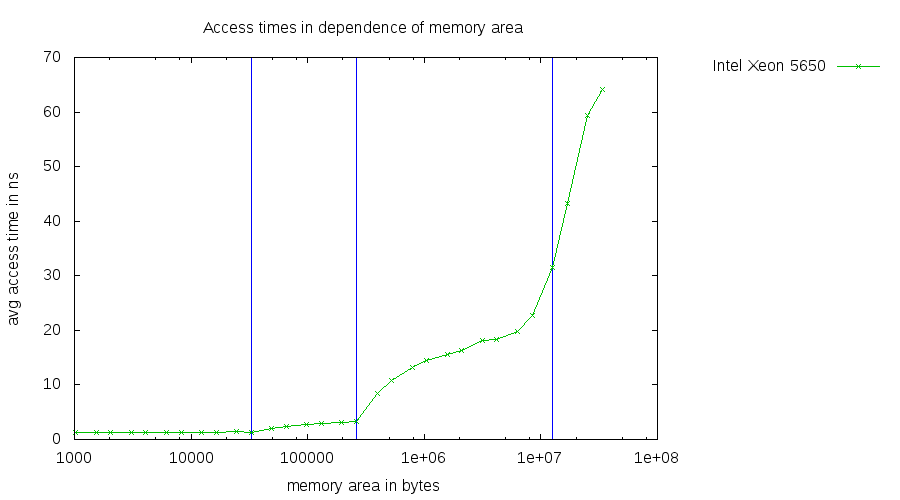
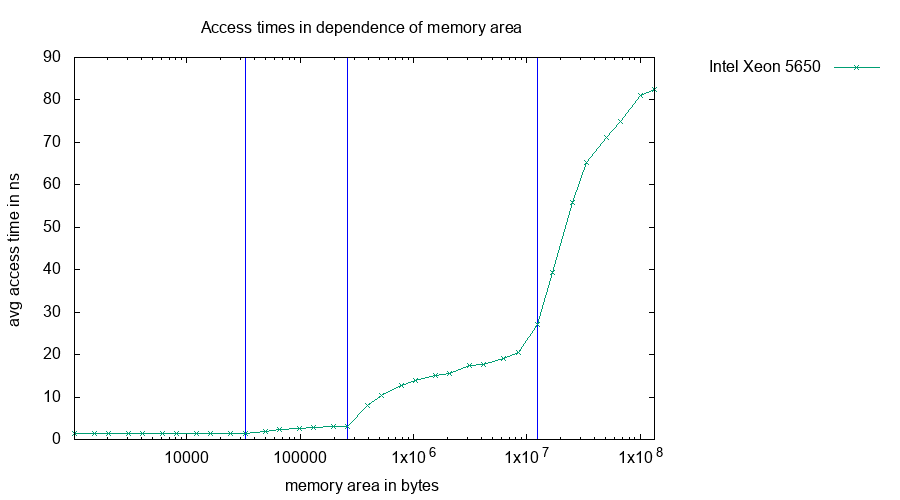
fmt::printf updated; walltime replaced by header-only class that is based on C++ std library; various minor adaptions

diff --git a/fused-linear-chase.cpp b/fused-linear-chase.cpp
@@ -1,5 +1,5 @@
 /* 
-   Copyright (c) 2016 Andreas F. Borchert
+   Copyright (c) 2016, 2018 Andreas F. Borchert
    All rights reserved.
 
    Permission is hereby granted, free of charge, to any person obtaining
@@ -53,15 +53,15 @@ volatile void* fused_linear_global; // to defeat optimizations
 
 template<typename... Pointers>
 double fused_chase(std::size_t count, Pointers&... ptrs) {
-   double t0 = walltime();
+   WallTime<double> walltime;
    // chase the pointers count times
    while (count-- > 0) {
       fused_action([](void**& p) { p = (void**) *p; }, ptrs...);
    }
-   double t1 = walltime();
+   auto elapsed = walltime.elapsed();
    // defeat the optimization that removes the chasing
    fused_action([](void**& p) { fused_linear_global = *p; }, ptrs...);
-   return t1 - t0;
+   return elapsed;
 }
 
 #ifndef MIN_STRIDE
@@ -81,13 +81,14 @@ int main() {
    fmt::printf("\n    stride\n");
    for (std::size_t stride = MIN_STRIDE; stride <= MAX_STRIDE;
 	 stride += sizeof(void*)) {
-      size_t memsize = std::min((size_t) 1<<26, stride * 1024 * sizeof(void*));
-      std::size_t count = (std::size_t) 1<<30;
+      size_t memsize = std::min(std::size_t{1}<<26,
+	 stride * 1024 * sizeof(void*));
+      std::size_t count = std::size_t{1}<<30;
       fmt::printf(" %8u", stride);
 
       auto print_result = [=](int fuse, double t) {
-	 double volume = (double) sizeof(void*) * count * fuse;
-	 double speed = (double) volume / t / (1<<30); /* in GiB/s */
+	 auto volume = static_cast<double>(sizeof(void*)) * count * fuse;
+	 auto speed = volume / t / (1<<30); /* in GiB/s */
 	 fmt::printf("  %10.5lf", speed); std::cout.flush();
       };
 

diff --git a/random-chase.cpp b/random-chase.cpp
@@ -1,5 +1,5 @@
 /* 
-   Copyright (c) 2016 Andreas F. Borchert
+   Copyright (c) 2016, 2018 Andreas F. Borchert
    All rights reserved.
 
    Permission is hereby granted, free of charge, to any person obtaining
@@ -73,21 +73,22 @@ unsigned int log2(std::size_t val) {
 #define MIN_SIZE 1024
 #endif
 #ifndef MAX_SIZE
-#define MAX_SIZE 1024 * 1024 * 32
+#define MAX_SIZE 1024 * 1024 * 128
 #endif
 #ifndef GRANULARITY
-#define GRANULARITY 1u
+#define GRANULARITY (1u)
 #endif
 
 int main() {
-   fmt::printf("  memsize  time in ns\n");
+   fmt::printf("   memsize  time in ns\n");
    for (std::size_t memsize = MIN_SIZE; memsize <= MAX_SIZE;
-	 memsize += (1 << (std::max(GRANULARITY, log2(memsize))-GRANULARITY))) {
+	 memsize += (std::size_t{1} <<
+	    (std::max(GRANULARITY, log2(memsize))-GRANULARITY))) {
       void** memory = create_random_chain(memsize);
-      std::size_t count = std::max(memsize * 16, (std::size_t) 1<<30);
+      std::size_t count = std::max(memsize * 16, std::size_t{1}<<30);
       double t = chase_pointers(memory, count);
       delete[] memory;
       double ns = t * 1000000000 / count;
-      fmt::printf(" %8u  %10.5lf\n", memsize, ns); std::cout.flush();
+      fmt::printf(" %9u  %10.5lf\n", memsize, ns); std::cout.flush();
    }
 }

diff --git a/walltime.hpp b/walltime.hpp
@@ -1,5 +1,5 @@
 /* 
-   Copyright (c) 2016 Andreas F. Borchert
+   Copyright (c) 2016, 2018 Andreas F. Borchert
    All rights reserved.
 
    Permission is hereby granted, free of charge, to any person obtaining
@@ -26,7 +26,22 @@
 #ifndef WALLTIME_HPP
 #define WALLTIME_HPP
 
-/* return real time in seconds since start of the process */
-double walltime();
+#include <chrono>
+
+template<typename T>
+class WallTime {
+   public:
+      WallTime() : t0(std::chrono::high_resolution_clock::now()) {
+      }
+      /* return real time in seconds using T since construction
+	 of this object */
+      T elapsed() const {
+	 using namespace std::chrono;
+	 auto time_spent = high_resolution_clock::now() - t0;
+	 return duration<T, seconds::period>(time_spent).count();
+      }
+   private:
+      std::chrono::high_resolution_clock::time_point t0;
+};
 
 #endif

diff --git a/chase-pointers.cpp b/chase-pointers.cpp
@@ -1,5 +1,5 @@
 /* 
-   Copyright (c) 2016 Andreas F. Borchert
+   Copyright (c) 2016, 2018 Andreas F. Borchert
    All rights reserved.
 
    Permission is hereby granted, free of charge, to any person obtaining
@@ -36,15 +36,15 @@ volatile void* chase_pointers_global; // to defeat optimizations
 /* follow a pointer chain the given number of times and
    return the measured time */
 double chase_pointers(void** memory, std::size_t count) {
-   double t0 = walltime();
+   WallTime<double> walltime;
    // chase the pointers count times
    void** p = (void**) memory;
    while (count-- > 0) {
       p = (void**) *p;
    }
-   double t1 = walltime();
+   auto elapsed = walltime.elapsed();
    chase_pointers_global = *p;
-   return t1 - t0;
+   return elapsed;
 }
 
 /* print pointer chain to std::cout (for debugging) */

diff --git a/linear-chase.cpp b/linear-chase.cpp
@@ -1,5 +1,5 @@
 /* 
-   Copyright (c) 2016 Andreas F. Borchert
+   Copyright (c) 2016, 2018 Andreas F. Borchert
    All rights reserved.
 
    Permission is hereby granted, free of charge, to any person obtaining
@@ -47,9 +47,10 @@ int main() {
    fmt::printf("   stride  time in ns\n");
    for (std::size_t stride = MIN_STRIDE; stride <= MAX_STRIDE;
 	 stride += sizeof(void*)) {
-      size_t memsize = std::min((size_t) 1<<26, stride * 1024 * sizeof(void*));
+      size_t memsize = std::min(std::size_t{1}<<26,
+	 stride * 1024 * sizeof(void*));
       void** memory = create_linear_chain(memsize, stride);
-      std::size_t count = (std::size_t) 1<<30;
+      std::size_t count = std::size_t{1}<<30;
       double t = chase_pointers(memory, count);
       delete[] memory;
       double ns = t * 1000000000 / count;
